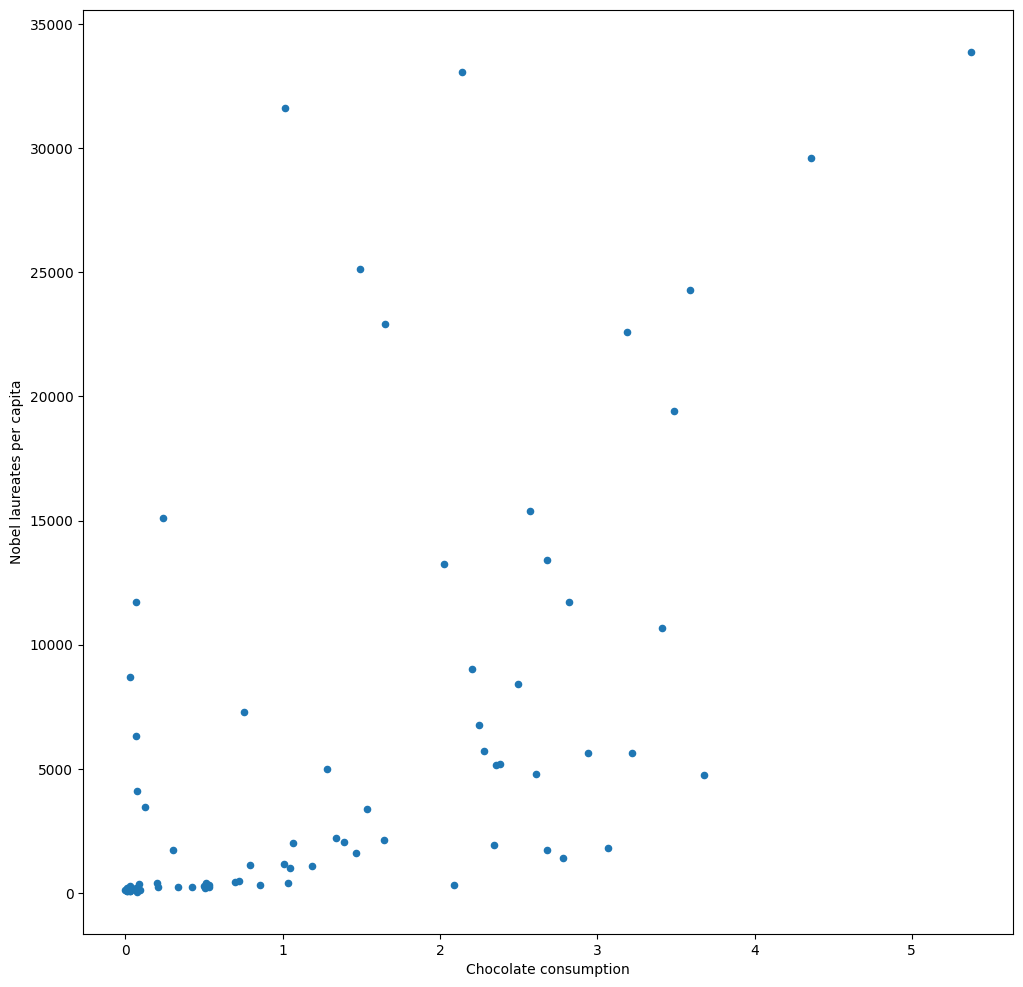
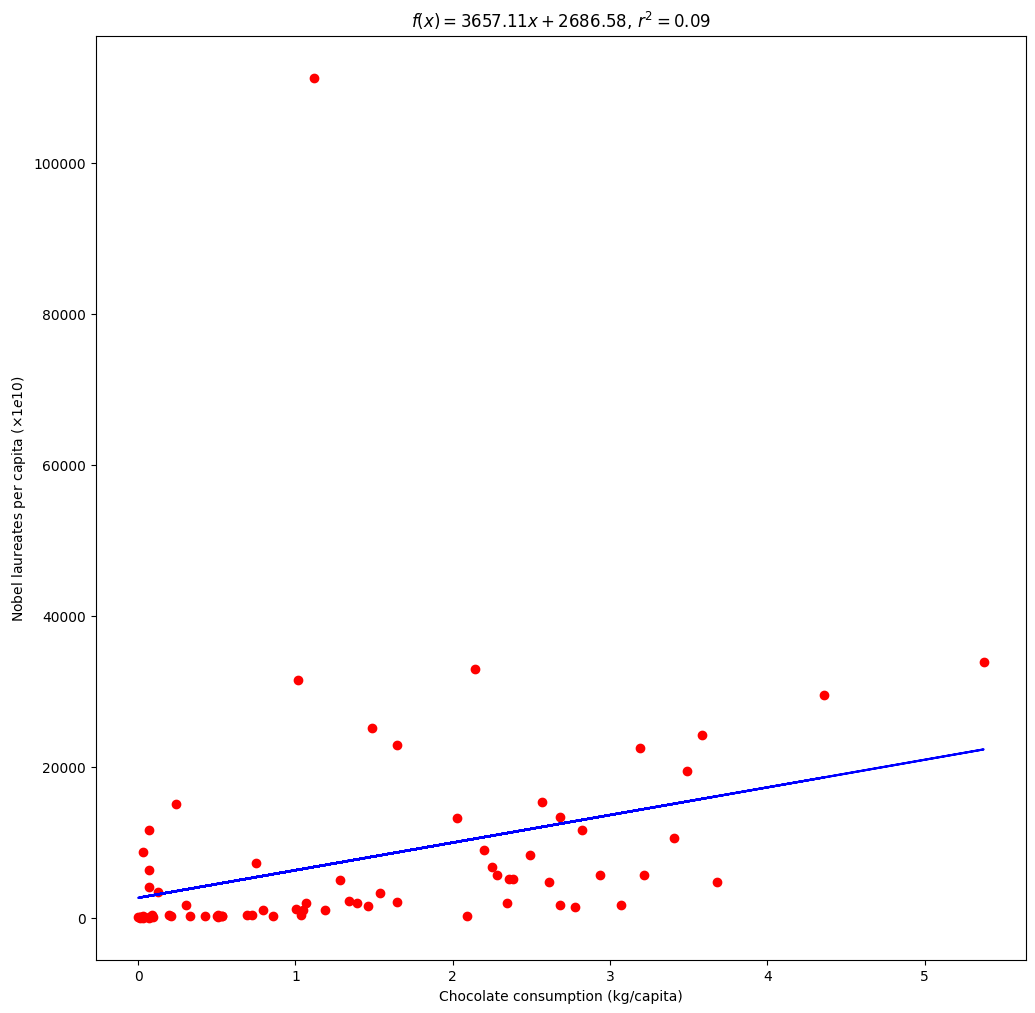
publish post on chocolate

diff --git a/_posts/2023-01-25-correlation-cognitive-function-chocolate-consumption.md b/_posts/2023-01-25-correlation-cognitive-function-chocolate-consumption.md
@@ -22,7 +22,7 @@ As a last word of the report, I adviced the fake managing directors to eat more 
   - [Dark chocolate is not the only factor at play](#dark-chocolate-is-not-the-only-factor-at-play)
   - [Is Nobel laureates per capita a fair indicator of the cognitive performance of country?](#is-nobel-laureates-per-capita-a-fair-indicator-of-the-cognitive-performance-of-country)
   - [Two indicators (cocoa, cognition) of a confounding variable (country's wealth)?](#two-indicators-cocoa-cognition-of-a-confounding-variable-countrys-wealth)
-- [Statistical Considerations](#statistical-considerations)
+- [Statistical considerations](#statistical-considerations)
   - [A very poor sample of wealthy countries](#a-very-poor-sample-of-wealthy-countries)
   - [The timespan of the data is heterogenous](#the-timespan-of-the-data-is-heterogenous)
   - [Which dependency metric to choose?](#which-dependency-metric-to-choose)
@@ -58,7 +58,7 @@ A correlation coefficient of $$r = 0.791$$ indicates a positive and linear corre
 
 The p-value is really low $$ p < 0.0001 $$, which is extremely significant, we are pretty sure that we can reject the null hypothesis, that the correlation is not equal to zero. In other word, it is highly unlikely that the observed correlation is only due to chance.
 
-However proving that the correlation is significantly different than zero doesn't give that much information about the alternative hypothesis. Why is there a correlation? Which are the reasons causing it? And what is the strength of the correlation?. Actually, we could have a similar p-value on a tiny correlation ratio although it would need a larger sample size. (TODO: calculate the power for p=0.0001, and effect of 0.0 to 0.1?)
+However proving that the correlation is significantly different than zero doesn't give that much information about the alternative hypothesis. Why is there a correlation? Which are the reasons causing it? And what is the strength of the correlation?. Actually, we could have a similar p-value on a tiny correlation ratio although it would need a larger sample size. (for $$\alpha=0.0001$$, and effect of 0.1 the sample size needed is 2070)
 To have a better grasp of the correlation at stake, let's calculate the confidence interval.
 
 # A little improvement of the statistical evidence
@@ -207,7 +207,7 @@ Chocolate consumption is probably an epiphenomenon of the wealth of (occidental)
 >
 > Note's author
 
-# Statistical Considerations
+# Statistical considerations
 ## A very poor sample of wealthy countries
 
 At the level of the statistical evidence, the small selection of countries could be an issue. Indeed, hypothesis testing relies on analyzing sample data to draw conclusions about all the population. The accuracy of the conclusions is influenced by the representativeness and the size of the sample. If the sample of countries is not truly representative of all the countries in the world the results may not be generalizable.
@@ -227,13 +227,13 @@ $$
 
 * with $$n$$, the sample size
 * with $$r$$, the correlation coefficient that we'd like to detect
-* with $$C_{\beta}$$ a coefficient dependent on TODO
+* with $$C_{\beta}$$ a coefficient dependent on the effect size and beta (type II error) 
 
 Thus, with a sample size of $$n=23$$ we have almost 99.8% chance of concluding that the correlation coefficient is different than zero when the correlation coefficient is 0.791.
 
-However there are less than 200 countries in the world, in such case, we should look at the sampling ratio. The sampling ratio is the sample size over the population size. Generally speaking, the smaller the population, the larger the sampling ratio needed. For populations under 1000, a common rule of thumb is to have a sampling ratio of 30% minimum to ensure representativeness of the sample.
+However there are less than 200 countries in the world, in such case, we should look at the sampling ratio. The sampling ratio is the sample size over the population size. Generally speaking, the smaller the population, the larger the sampling ratio needed. For populations under 1000, a common rule of thumb is to have a sampling ratio of 30% at least to ensure representativeness of the sample.
 
-In the case of this study, the sampling is $$23/193 = 11.9\%$$. We would rather want to have 58 countries!
+In the case of this study, the sampling is $$23/193 = 11.9\%$$. We would rather want to have 58 countries or more in our dataset!
 
 ## The timespan of the data is heterogenous
 
@@ -244,21 +244,18 @@ In the case of this study, the sampling is $$23/193 = 11.9\%$$. We would rather 
 Apart from the constantly evolving number of Nobel laureates and cocoa consumption, the open data used in the study has a huge timespan difference:
 
 * For the Nobel laureates, first awards were given in 1901, so the timespan is 110 years, until the date of the note's publication
-* For the chocolate consumption, the timespan is more chaotic as it comes from multiple sources: [chocosuisse](https://www.chocosuisse.ch/fr/), [theobroma-cacao](https://www.theobroma-cacao.de/wissen/wirtschaft/international/konsum) and [caobisco](https://caobisco.eu/). The data is gather on approximately 8 years, from 2004 to 2012.
+* For the chocolate consumption, the timespan is more chaotic as it comes from multiple sources: [chocosuisse](https://www.chocosuisse.ch/fr/), [theobroma-cacao](https://www.theobroma-cacao.de/wissen/wirtschaft/international/konsum) and [caobisco](https://caobisco.eu/). The data is gathered on approximately 8 years, from 2004 to 2012.
 
-The calculation of the correlation is done between two phenomenons changing over time and on two very different timespan: 1901-2012 for the Nobels and 2004-2012 for the chocolate. Without saying it, we consider that the consumption of chocolate didn't change that much between 1901 and 2004.
+The calculation of the correlation is done between two phenomenons changing over time and on two very different periods of time: 1901-2012 for the Nobels and 2004-2012 for the chocolate. Without saying it, we consider that the consumption of chocolate didn't change that much between 1901 and 2004.
 
 ## Which dependency metric to choose?
 
-The strength of a linear correlation between to continuous variable can be measured by Pearson correlation coefficient. The relationship is:
+The strength of a linear correlation between two continuous variable can be measured by the Pearson correlation coefficient. The relationship is:
 * null if $$r=0$$
 * perfect if $$r=\mp 1$$
 * strong if $$ \lvert r \rvert >0.8$$
 
-However a non linear relationship isn't always measurable by the Pearson correlation, for instance in the case of a parabolic relationship. In case of outlier, even a linear relationship may not be detected by the coefficient of Pearson. A famous diagram perfectly illustrates this. 
-
-The four graphs known as the [Anscombe's quartet](https://en.wikipedia.org/wiki/Anscombe%27s_quartet), all share the same correlation coefficent of $$r=
-0.816$$, but each on looks very different:
+However a non linear relationship isn't always measurable by the Pearson correlation, for instance in the case of a parabolic relationship. If the dataset is somewhat linear but contains outliers, the linear relationship may not be detected by the coefficient of Pearson. The famous [four graphs](https://en.wikipedia.org/wiki/Anscombe%27s_quartet) of Anscombe illustrate this. They emphasize the variety of datasets that can share the same correlation coefficent of $$r=0.816$$:
 
 ![Anscombe's quartet](/assets/2023-01-25/anscombes-quartet.svg)
 
@@ -266,34 +263,30 @@ The four graphs known as the [Anscombe's quartet](https://en.wikipedia.org/wiki/
 >
 > Francis John Anscombe in "Graphs in Statistical Analysis". American Statistician. 27 (1): 17–21.
 
-There would be three good reasons to use the Spearman coefficient:
+So there would be three good reasons to use another famous correlatio metric known as the Spearman coefficient:
 1. it enables us to measure a correlation between countinous, discrete or ordinal variables
 2. as the test is non parametric, it takes the ranks instead of the values, so it doesn't need the data to be normally distributed, and doesn't need the data to be free of outliers either
-3. and it is always good to compare both coefficients
+3. and its' always nice to be able to compare both corraltion metrics
 
 # Retry attempt and conclusion
 
-Giving that the data used the study is not easily available, it is very hard to reproduce the exact same result. It's now more common to make available the data when publishing a paper.
+Giving that the data used by the author of the note is not easily available, it is very hard to reproduce the exact same result. I found some data on wikipedia for the Nobel laureates, and on `ourworldindata` for chocolate consumption. The whole code for this part is in [this notebook](https://github.com/ClementBM/sandbox/blob/main/chocolate-blogpost/eda.ipynb).
+
+Hereafter is the scatterplot with the regression line:
 
 ![alt](/assets/2023-01-25/scatter-plot-on-retry-attempt.png)
 
-The sample size is 72, so we have a good sampling ratio.
+The sample size is 72, so we have a sampling ratio of more than 37%.
 
-Pearson correlation
-* 0.306
-* p-value=2.87e-07
-* confidence interval=
+| | Pearson correlation | Spearman correlation |
+|--|--|--|
+| statistic | $$r=0.306$$ | $$\rho=0.654$$ |
+| p-value | $$2.87\text{e-}07$$ | $$3.54\text{e-}10$$ |
+| confidence interval | $$\text{P}( r \in [0.082, 0.500] ) \ge 95% $$ | $$\text{P}( r \in [0.499, 0.768] ) \ge 95% $$ |
 
-Spearman correlation
-* 0.654
-* p-value=
-* confidence interval=
+With a lower bound near zero (at 0.082), the strength of the Pearson correlation is way lower than in the note of interest ($$r=0.791$$). Nevertheless, the Spearman coefficient is a lot higher than the Pearson coefficient. It may be an indicator of a nonlinear relashionship and/or a outlier existence. The country of Santa Lucia is clearly an outlier here (at the top of the previous graph).
 
-
-> "If you can’t change the world with cookies, how can you change the world?”
-> 
-> Pat Murphy
-
+As the Spearman correlation coefficient give us a little more confidence in the relationship between the two variables, is chocolate really the answer here?
 
 # Resources
 * [Chocolate Consumption, Cognitive Function, and Nobel Laureates](https://www.biostat.jhsph.edu/courses/bio621/misc/Chocolate%20consumption%20cognitive%20function%20and%20nobel%20laurates%20(NEJM).pdf)
@@ -318,6 +311,7 @@ Spearman correlation
 * [Marginal Effects: Definition](https://www.statisticshowto.com/marginal-effects/)
 * [Pearson Correlation Coefficient](https://en.wikipedia.org/wiki/Pearson_correlation_coefficient)
 * [What is a confounding variable?](https://www.scribbr.com/methodology/confounding-variables/)
+* [Correlation Coefficient using z-transformation](https://www2.ccrb.cuhk.edu.hk/stat/other/correlation.htm)
 
 ## Data Sources
 * [Nobel Prize - Laureates](https://public.opendatasoft.com/explore/dataset/nobel-prize-laureates/table/?flg=fr&disjunctive.category)
